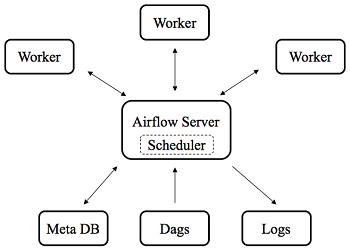
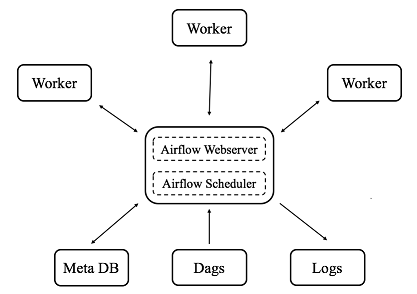
Update airflow diagram to make it more accurate

diff --git a/author/tianlong-song.html b/author/tianlong-song.html
@@ -75,7 +75,7 @@ by <a class="url fn" href="https://stlong0521.github.io/author/tianlong-song.htm
         
         <div><p><a href="https://github.com/apache/incubator-airflow">Airflow</a> is an open-source platform to author, schedule and monitor workflows and data pipelines. When you have periodical jobs, which most likely involve various data transfer and/or show dependencies on each other, you should consider Airflow. This blog post briefly introduces Airflow, and provides the instructions to build an Airflow server/cluster from scratch.</p>
 <h3>A Glimpse at Airflow under the Hood</h3>
-<p>A complete and robust production-level Airflow infrastructure works under the server-worker settings, as you can see in the diagram below. The airflow server schedules jobs according to the dependencies defined in directed acrylic graphs (DAGs), and the airflow workers pick up and run jobs with their loads properly balanced. All job information is stored in the meta DB, which is updated in a timely manner. The users can monitor their jobs via a shiny Airflow web UI or the logs.</p>
+<p>Generally, Airflow works in a distributed environment, as you can see in the diagram below. The airflow scheduler schedules jobs according to the dependencies defined in directed acrylic graphs (DAGs), and the airflow workers pick up and run jobs with their loads properly balanced. All job information is stored in the meta DB, which is updated in a timely manner. The users can monitor their jobs via a shiny Airflow web UI and/or the logs.</p>
 <figure align="center">
 <img src="/figures/20161023/Airflow.png" alt="Airflow">
 <figcaption align="center">Fig. 1: Airflow Diagram.</figcaption>

diff --git a/category/big-data.html b/category/big-data.html
@@ -75,7 +75,7 @@ by <a class="url fn" href="https://stlong0521.github.io/author/tianlong-song.htm
         
         <div><p><a href="https://github.com/apache/incubator-airflow">Airflow</a> is an open-source platform to author, schedule and monitor workflows and data pipelines. When you have periodical jobs, which most likely involve various data transfer and/or show dependencies on each other, you should consider Airflow. This blog post briefly introduces Airflow, and provides the instructions to build an Airflow server/cluster from scratch.</p>
 <h3>A Glimpse at Airflow under the Hood</h3>
-<p>A complete and robust production-level Airflow infrastructure works under the server-worker settings, as you can see in the diagram below. The airflow server schedules jobs according to the dependencies defined in directed acrylic graphs (DAGs), and the airflow workers pick up and run jobs with their loads properly balanced. All job information is stored in the meta DB, which is updated in a timely manner. The users can monitor their jobs via a shiny Airflow web UI or the logs.</p>
+<p>Generally, Airflow works in a distributed environment, as you can see in the diagram below. The airflow scheduler schedules jobs according to the dependencies defined in directed acrylic graphs (DAGs), and the airflow workers pick up and run jobs with their loads properly balanced. All job information is stored in the meta DB, which is updated in a timely manner. The users can monitor their jobs via a shiny Airflow web UI and/or the logs.</p>
 <figure align="center">
 <img src="/figures/20161023/Airflow.png" alt="Airflow">
 <figcaption align="center">Fig. 1: Airflow Diagram.</figcaption>

diff --git a/index.html b/index.html
@@ -75,7 +75,7 @@ by <a class="url fn" href="https://stlong0521.github.io/author/tianlong-song.htm
         
         <div><p><a href="https://github.com/apache/incubator-airflow">Airflow</a> is an open-source platform to author, schedule and monitor workflows and data pipelines. When you have periodical jobs, which most likely involve various data transfer and/or show dependencies on each other, you should consider Airflow. This blog post briefly introduces Airflow, and provides the instructions to build an Airflow server/cluster from scratch.</p>
 <h3>A Glimpse at Airflow under the Hood</h3>
-<p>A complete and robust production-level Airflow infrastructure works under the server-worker settings, as you can see in the diagram below. The airflow server schedules jobs according to the dependencies defined in directed acrylic graphs (DAGs), and the airflow workers pick up and run jobs with their loads properly balanced. All job information is stored in the meta DB, which is updated in a timely manner. The users can monitor their jobs via a shiny Airflow web UI or the logs.</p>
+<p>Generally, Airflow works in a distributed environment, as you can see in the diagram below. The airflow scheduler schedules jobs according to the dependencies defined in directed acrylic graphs (DAGs), and the airflow workers pick up and run jobs with their loads properly balanced. All job information is stored in the meta DB, which is updated in a timely manner. The users can monitor their jobs via a shiny Airflow web UI and/or the logs.</p>
 <figure align="center">
 <img src="/figures/20161023/Airflow.png" alt="Airflow">
 <figcaption align="center">Fig. 1: Airflow Diagram.</figcaption>

diff --git a/tag/big-data.html b/tag/big-data.html
@@ -75,7 +75,7 @@ by <a class="url fn" href="https://stlong0521.github.io/author/tianlong-song.htm
         
         <div><p><a href="https://github.com/apache/incubator-airflow">Airflow</a> is an open-source platform to author, schedule and monitor workflows and data pipelines. When you have periodical jobs, which most likely involve various data transfer and/or show dependencies on each other, you should consider Airflow. This blog post briefly introduces Airflow, and provides the instructions to build an Airflow server/cluster from scratch.</p>
 <h3>A Glimpse at Airflow under the Hood</h3>
-<p>A complete and robust production-level Airflow infrastructure works under the server-worker settings, as you can see in the diagram below. The airflow server schedules jobs according to the dependencies defined in directed acrylic graphs (DAGs), and the airflow workers pick up and run jobs with their loads properly balanced. All job information is stored in the meta DB, which is updated in a timely manner. The users can monitor their jobs via a shiny Airflow web UI or the logs.</p>
+<p>Generally, Airflow works in a distributed environment, as you can see in the diagram below. The airflow scheduler schedules jobs according to the dependencies defined in directed acrylic graphs (DAGs), and the airflow workers pick up and run jobs with their loads properly balanced. All job information is stored in the meta DB, which is updated in a timely manner. The users can monitor their jobs via a shiny Airflow web UI and/or the logs.</p>
 <figure align="center">
 <img src="/figures/20161023/Airflow.png" alt="Airflow">
 <figcaption align="center">Fig. 1: Airflow Diagram.</figcaption>

diff --git a/20161023 - Airflow.html b/20161023 - Airflow.html
@@ -69,7 +69,7 @@ by <a class="url fn" href="https://stlong0521.github.io/author/tianlong-song.htm
 	
         <div><p><a href="https://github.com/apache/incubator-airflow">Airflow</a> is an open-source platform to author, schedule and monitor workflows and data pipelines. When you have periodical jobs, which most likely involve various data transfer and/or show dependencies on each other, you should consider Airflow. This blog post briefly introduces Airflow, and provides the instructions to build an Airflow server/cluster from scratch.</p>
 <h3>A Glimpse at Airflow under the Hood</h3>
-<p>A complete and robust production-level Airflow infrastructure works under the server-worker settings, as you can see in the diagram below. The airflow server schedules jobs according to the dependencies defined in directed acrylic graphs (DAGs), and the airflow workers pick up and run jobs with their loads properly balanced. All job information is stored in the meta DB, which is updated in a timely manner. The users can monitor their jobs via a shiny Airflow web UI or the logs.</p>
+<p>Generally, Airflow works in a distributed environment, as you can see in the diagram below. The airflow scheduler schedules jobs according to the dependencies defined in directed acrylic graphs (DAGs), and the airflow workers pick up and run jobs with their loads properly balanced. All job information is stored in the meta DB, which is updated in a timely manner. The users can monitor their jobs via a shiny Airflow web UI and/or the logs.</p>
 <figure align="center">
 <img src="/figures/20161023/Airflow.png" alt="Airflow">
 <figcaption align="center">Fig. 1: Airflow Diagram.</figcaption>
